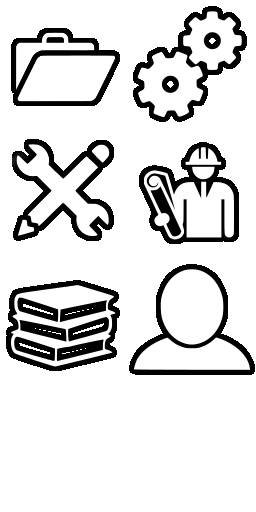
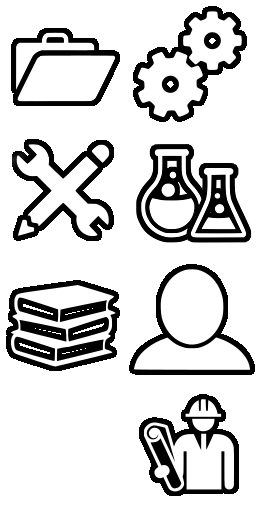
Changes to the menu.

Changed region(s): [[0.5312, 0.25, 1.0, 0.5], [0.5312, 0.75, 0.9375, 0.9688]]

diff --git a/public/index.html b/public/index.html
@@ -30,13 +30,13 @@
                 <img src="img/skills.svg">
                 <h3>Skills</h3>
             </a>
-            <a id='p5a' href='#projects'>
-                <img src="img/projects.svg">
-                <h3>Projects</h3>
+            <a id='p5a' href='#lab'>
+                <img src="img/lab.svg">
+                <h3>Experiments</h3>
             </a>
             <a id='p6a' href='#blog'>
                 <img src="img/portfolio.svg">
-                <h3>Portfolio</h3>
+                <h3>Articles</h3>
             </a>
         </menu>
     </header>
@@ -240,13 +240,13 @@
                 in print, radio, TV and the web. Direct marketing experience.</p>
         </section>
 
-        <section class="content" id="projects">
-            <h2>PROJECTS</h2>
+        <section class="content" id="lab">
+            <h2>Experiments</h2>
 
         </section>
 
         <section class="content" id="blog">
-            <h2>BLOG</h2>
+            <h2>Articles</h2>
 
         </section>
     </section>

diff --git a/src/client/webgl.ts b/src/client/webgl.ts
@@ -376,7 +376,7 @@ export class WebGLSupport {
         const hashes = {
             aboutme: 1,
             experience: 5,
-            projects: 3,
+            lab: 3,
             skills: 2,
             blog: 4,
             education:0
